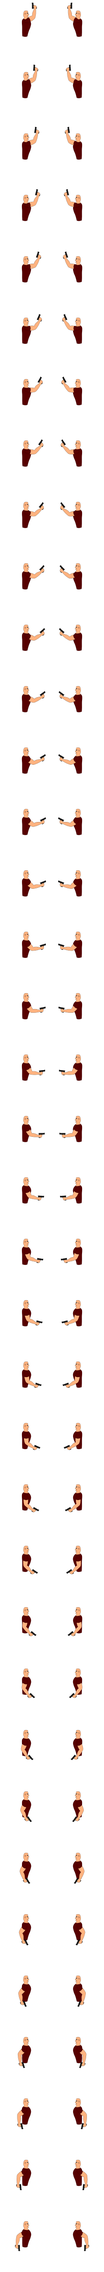
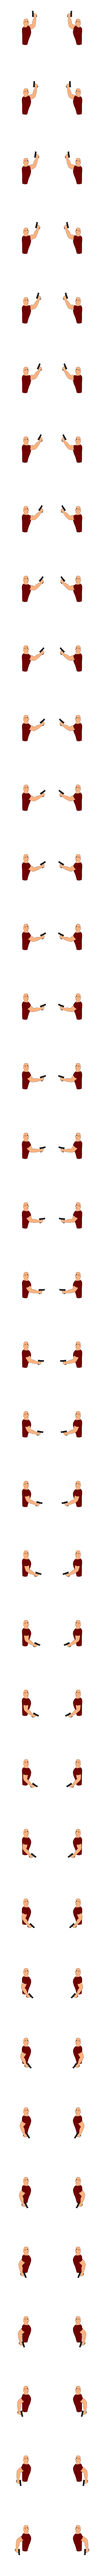
Added new images

Changed region(s): [[0.5625, 0.0, 0.8438, 0.9975], [0.1562, 0.0, 0.4375, 0.9975]]

diff --git a/src/game.cc b/src/game.cc
@@ -107,7 +107,6 @@ namespace feed
         Resources::instance().addImage("sky_bg", "data/skycloud.jpg");
         Resources::instance().addImage("menu_bg", "data/duke.bmp");
         Resources::instance().addImage("legs", "data/gfx/legs.png");
-        Resources::instance().addImage("player-torso", "data/gfx/player-torso.png");
         Resources::instance().addImage("grunt-torso", "data/gfx/grunt-torso.png");
         Resources::instance().addImage("fire", "data/gfx/fire.png");
         Resources::instance().addImage("fireball", "data/gfx/fireball.png");
@@ -117,6 +116,11 @@ namespace feed
 
         // Container-bilder
         Resources::instance().addImage("spikes", "data/gfx/spikes.png");
+
+        // Spelarbilder
+        Resources::instance().addImage("player-torso-pistol", "data/gfx/player-torso-pistol.png");
+        Resources::instance().addImage("player-torso-shotgun", "data/gfx/player-torso-shotgun.png");
+        Resources::instance().addImage("player-torso-smg", "data/gfx/player-torso-smg.png");
 
         // Menybilder
         Resources::instance().addImage("menu_background", "data/gfx/menu_background.png");

diff --git a/src/world.cc b/src/world.cc
@@ -663,7 +663,7 @@ namespace feed
                              util::PLAYER_MAX_HEALTH,
                              util::PLAYER_MAX_ARMOR);
         player_->setAnimated(4, 8);
-        player_->setTopImage(Resources::instance()["player-torso"], 2, 37);
+        player_->setTopImage(Resources::instance()["player-torso-pistol"], 2, 37);
 	    player_->addWeapon(Weapon::PISTOL);
         player_->set_collision_offset(glm::vec2(50, 20));
     }
